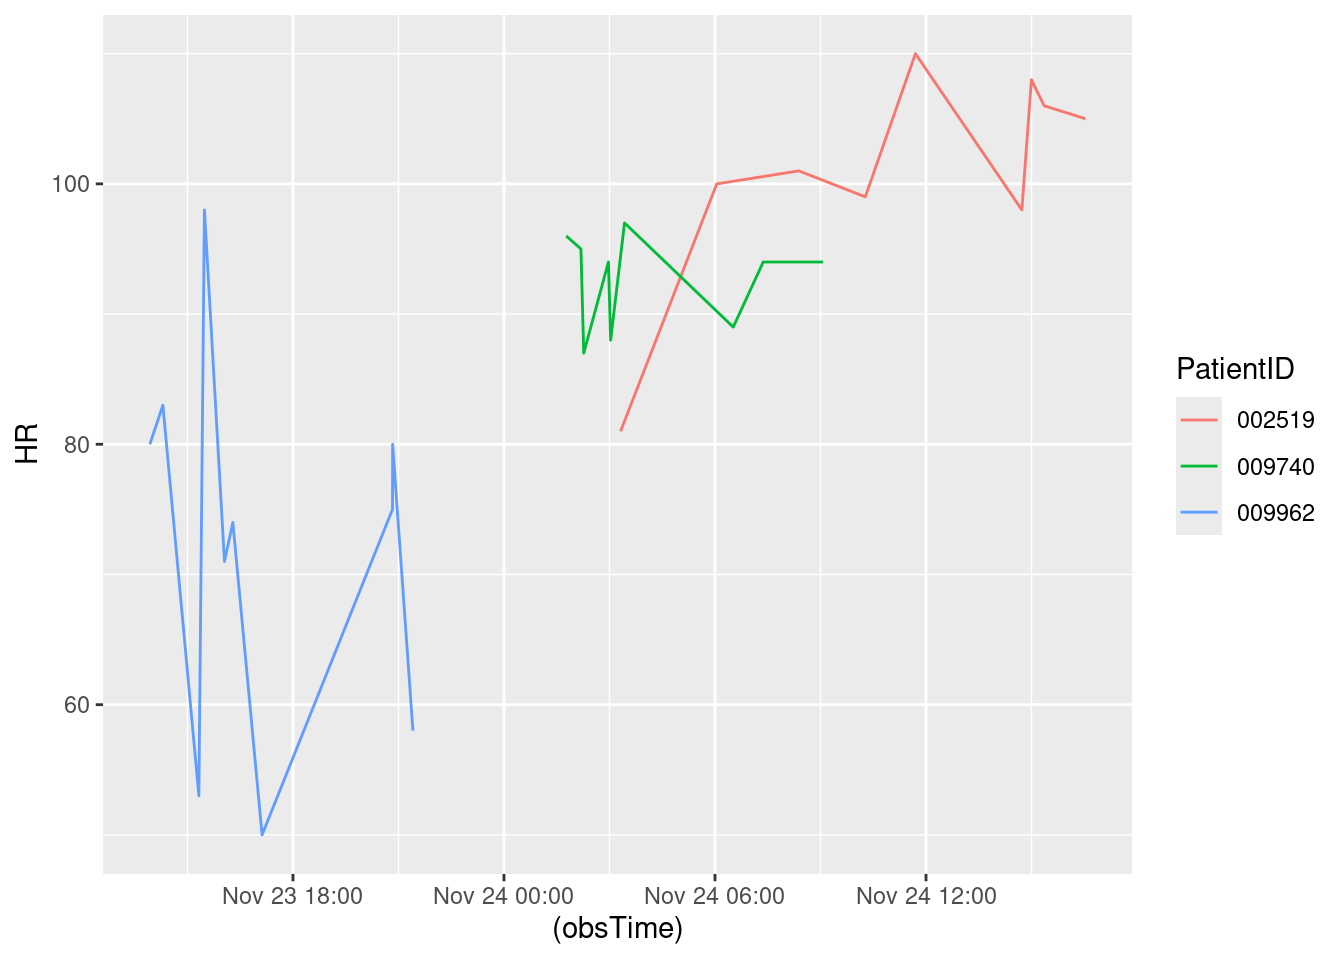
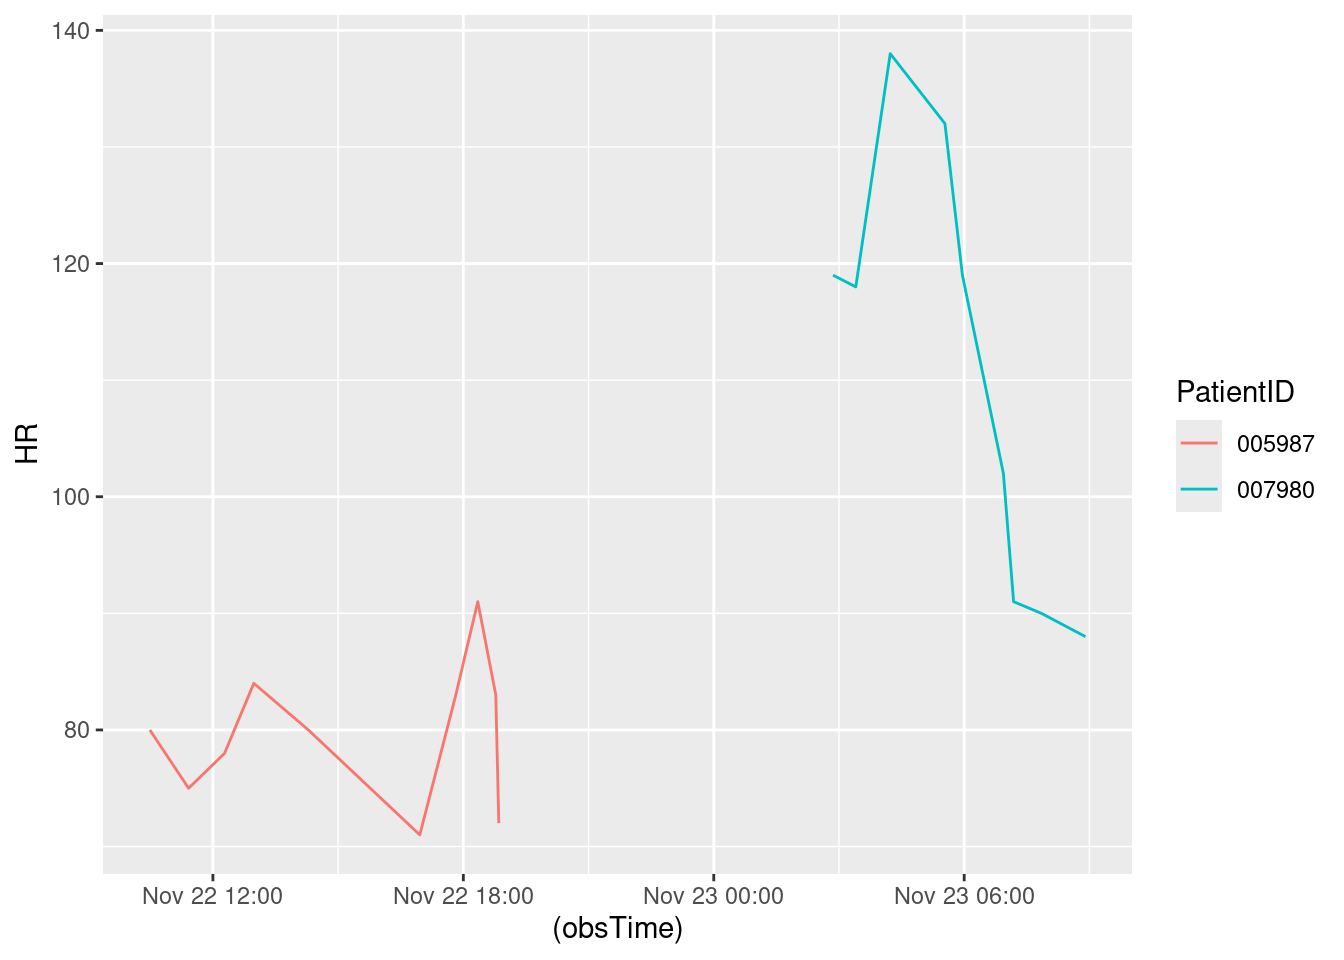
Updated report

diff --git a/HW7.html b/HW7.html
@@ -152,7 +152,7 @@ The following object is masked from 'package:purrr':
 </div>
 <div class="sourceCode cell-code" id="cb8"><pre class="sourceCode r code-with-copy"><code class="sourceCode r"><span id="cb8-1"><a href="#cb8-1" aria-hidden="true" tabindex="-1"></a><span class="fu">toc</span>()</span></code><button title="Copy to Clipboard" class="code-copy-button"><i class="bi"></i></button></pre></div>
 <div class="cell-output cell-output-stdout">
-<pre><code>25.287 sec elapsed</code></pre>
+<pre><code>13.591 sec elapsed</code></pre>
 </div>
 <div class="sourceCode cell-code" id="cb10"><pre class="sourceCode r code-with-copy"><code class="sourceCode r"><span id="cb10-1"><a href="#cb10-1" aria-hidden="true" tabindex="-1"></a><span class="fu">tic</span>()</span>
 <span id="cb10-2"><a href="#cb10-2" aria-hidden="true" tabindex="-1"></a>test1<span class="ot">=</span><span class="fu">makeSepsisDataset</span>(<span class="at">n=</span><span class="dv">50</span>,<span class="at">read_fn =</span> <span class="st">"read_delim"</span>)</span>
@@ -162,7 +162,7 @@ The following object is masked from 'package:purrr':
 </div>
 <div class="sourceCode cell-code" id="cb12"><pre class="sourceCode r code-with-copy"><code class="sourceCode r"><span id="cb12-1"><a href="#cb12-1" aria-hidden="true" tabindex="-1"></a><span class="fu">toc</span>()</span></code><button title="Copy to Clipboard" class="code-copy-button"><i class="bi"></i></button></pre></div>
 <div class="cell-output cell-output-stdout">
-<pre><code>21.49 sec elapsed</code></pre>
+<pre><code>11.629 sec elapsed</code></pre>
 </div>
 <div class="sourceCode cell-code" id="cb14"><pre class="sourceCode r code-with-copy"><code class="sourceCode r"><span id="cb14-1"><a href="#cb14-1" aria-hidden="true" tabindex="-1"></a><span class="fu">tic</span>()</span>
 <span id="cb14-2"><a href="#cb14-2" aria-hidden="true" tabindex="-1"></a>test1<span class="ot">=</span><span class="fu">makeSepsisDataset</span>(<span class="at">n=</span><span class="dv">100</span>,<span class="at">read_fn =</span> <span class="st">"fread"</span>)</span>
@@ -172,7 +172,7 @@ The following object is masked from 'package:purrr':
 </div>
 <div class="sourceCode cell-code" id="cb16"><pre class="sourceCode r code-with-copy"><code class="sourceCode r"><span id="cb16-1"><a href="#cb16-1" aria-hidden="true" tabindex="-1"></a><span class="fu">toc</span>()</span></code><button title="Copy to Clipboard" class="code-copy-button"><i class="bi"></i></button></pre></div>
 <div class="cell-output cell-output-stdout">
-<pre><code>45.803 sec elapsed</code></pre>
+<pre><code>25.463 sec elapsed</code></pre>
 </div>
 <div class="sourceCode cell-code" id="cb18"><pre class="sourceCode r code-with-copy"><code class="sourceCode r"><span id="cb18-1"><a href="#cb18-1" aria-hidden="true" tabindex="-1"></a><span class="fu">tic</span>()</span>
 <span id="cb18-2"><a href="#cb18-2" aria-hidden="true" tabindex="-1"></a>test1<span class="ot">=</span><span class="fu">makeSepsisDataset</span>(<span class="at">n=</span><span class="dv">100</span>,<span class="at">read_fn =</span> <span class="st">"read_delim"</span>)</span>
@@ -182,7 +182,7 @@ The following object is masked from 'package:purrr':
 </div>
 <div class="sourceCode cell-code" id="cb20"><pre class="sourceCode r code-with-copy"><code class="sourceCode r"><span id="cb20-1"><a href="#cb20-1" aria-hidden="true" tabindex="-1"></a><span class="fu">toc</span>()</span></code><button title="Copy to Clipboard" class="code-copy-button"><i class="bi"></i></button></pre></div>
 <div class="cell-output cell-output-stdout">
-<pre><code>42.435 sec elapsed</code></pre>
+<pre><code>22.571 sec elapsed</code></pre>
 </div>
 <div class="sourceCode cell-code" id="cb22"><pre class="sourceCode r code-with-copy"><code class="sourceCode r"><span id="cb22-1"><a href="#cb22-1" aria-hidden="true" tabindex="-1"></a><span class="fu">tic</span>()</span>
 <span id="cb22-2"><a href="#cb22-2" aria-hidden="true" tabindex="-1"></a>test1<span class="ot">=</span><span class="fu">makeSepsisDataset</span>(<span class="at">n=</span><span class="dv">500</span>,<span class="at">read_fn =</span> <span class="st">"fread"</span>)</span>
@@ -192,7 +192,7 @@ The following object is masked from 'package:purrr':
 </div>
 <div class="sourceCode cell-code" id="cb24"><pre class="sourceCode r code-with-copy"><code class="sourceCode r"><span id="cb24-1"><a href="#cb24-1" aria-hidden="true" tabindex="-1"></a><span class="fu">toc</span>()</span></code><button title="Copy to Clipboard" class="code-copy-button"><i class="bi"></i></button></pre></div>
 <div class="cell-output cell-output-stdout">
-<pre><code>235.014 sec elapsed</code></pre>
+<pre><code>128.294 sec elapsed</code></pre>
 </div>
 <div class="sourceCode cell-code" id="cb26"><pre class="sourceCode r code-with-copy"><code class="sourceCode r"><span id="cb26-1"><a href="#cb26-1" aria-hidden="true" tabindex="-1"></a><span class="fu">tic</span>()</span>
 <span id="cb26-2"><a href="#cb26-2" aria-hidden="true" tabindex="-1"></a>test1<span class="ot">=</span><span class="fu">makeSepsisDataset</span>(<span class="at">n=</span><span class="dv">500</span>,<span class="at">read_fn =</span> <span class="st">"read_delim"</span>)</span>
@@ -202,7 +202,7 @@ The following object is masked from 'package:purrr':
 </div>
 <div class="sourceCode cell-code" id="cb28"><pre class="sourceCode r code-with-copy"><code class="sourceCode r"><span id="cb28-1"><a href="#cb28-1" aria-hidden="true" tabindex="-1"></a><span class="fu">toc</span>()</span></code><button title="Copy to Clipboard" class="code-copy-button"><i class="bi"></i></button></pre></div>
 <div class="cell-output cell-output-stdout">
-<pre><code>212.263 sec elapsed</code></pre>
+<pre><code>115.081 sec elapsed</code></pre>
 </div>
 </div>
 <p>Problem 3: Speed reading</p>
@@ -244,7 +244,7 @@ dttm (1): obsTime
 <div class="sourceCode cell-code" id="cb35"><pre class="sourceCode r code-with-copy"><code class="sourceCode r"><span id="cb35-1"><a href="#cb35-1" aria-hidden="true" tabindex="-1"></a><span class="co">#Sys.Date()</span></span>
 <span id="cb35-2"><a href="#cb35-2" aria-hidden="true" tabindex="-1"></a><span class="fu">Sys.time</span>()</span></code><button title="Copy to Clipboard" class="code-copy-button"><i class="bi"></i></button></pre></div>
 <div class="cell-output cell-output-stdout">
-<pre><code>[1] "2024-11-22 09:34:32 UTC"</code></pre>
+<pre><code>[1] "2024-11-22 10:29:22 UTC"</code></pre>
 </div>
 <div class="sourceCode cell-code" id="cb37"><pre class="sourceCode r code-with-copy"><code class="sourceCode r"><span id="cb37-1"><a href="#cb37-1" aria-hidden="true" tabindex="-1"></a>dfnew<span class="ot">=</span>df <span class="sc">%&gt;%</span><span class="fu">subset</span>(SepsisLabel<span class="sc">==</span><span class="dv">1</span>)</span>
 <span id="cb37-2"><a href="#cb37-2" aria-hidden="true" tabindex="-1"></a></span>
@@ -259,22 +259,17 @@ dttm (1): obsTime
 <span id="cb37-11"><a href="#cb37-11" aria-hidden="true" tabindex="-1"></a></span>
 <span id="cb37-12"><a href="#cb37-12" aria-hidden="true" tabindex="-1"></a><span class="fu">print</span>(res)</span></code><button title="Copy to Clipboard" class="code-copy-button"><i class="bi"></i></button></pre></div>
 <div class="cell-output cell-output-stdout">
-<pre><code># A tibble: 3 × 7
-# Groups:   PatientID [3]
+<pre><code># A tibble: 2 × 7
+# Groups:   PatientID [2]
   PatientID ICULOS    HR  Temp  Resp SepsisLabel obsTime            
   &lt;chr&gt;      &lt;int&gt; &lt;int&gt; &lt;dbl&gt; &lt;int&gt;       &lt;int&gt; &lt;dttm&gt;             
-1 002519        55   105  NA      14           1 2024-11-24 16:32:03
-2 009740        48    94  37.1    22           1 2024-11-24 09:04:12
-3 009962        36    58  NA      22           1 2024-11-23 21:24:38</code></pre>
+1 005987         9    72  NA      27           1 2024-11-22 18:50:59
+2 007980        23    88  36.1    13           1 2024-11-23 08:54:20</code></pre>
 </div>
 </div>
 <div class="cell">
 <div class="sourceCode cell-code" id="cb39"><pre class="sourceCode r code-with-copy"><code class="sourceCode r"><span id="cb39-1"><a href="#cb39-1" aria-hidden="true" tabindex="-1"></a>dfnew <span class="sc">%&gt;%</span></span>
 <span id="cb39-2"><a href="#cb39-2" aria-hidden="true" tabindex="-1"></a>  <span class="fu">ggplot</span>()<span class="sc">+</span><span class="fu">geom_line</span>(<span class="fu">aes</span>(<span class="at">y=</span>HR,<span class="at">x=</span>(obsTime),<span class="at">color=</span>PatientID))</span></code><button title="Copy to Clipboard" class="code-copy-button"><i class="bi"></i></button></pre></div>
-<div class="cell-output cell-output-stderr">
-<pre><code>Warning: Removed 1 row containing missing values or values outside the scale range
-(`geom_line()`).</code></pre>
-</div>
 <div class="cell-output-display">
 <div>
 <figure class="figure">
@@ -287,7 +282,7 @@ dttm (1): obsTime
 <section id="display-the-most-recent-data" class="level2">
 <h2 class="anchored" data-anchor-id="display-the-most-recent-data">Display the most recent data</h2>
 <div class="cell">
-<div class="sourceCode cell-code" id="cb41"><pre class="sourceCode r code-with-copy"><code class="sourceCode r"><span id="cb41-1"><a href="#cb41-1" aria-hidden="true" tabindex="-1"></a>most_recent_data</span></code><button title="Copy to Clipboard" class="code-copy-button"><i class="bi"></i></button></pre></div>
+<div class="sourceCode cell-code" id="cb40"><pre class="sourceCode r code-with-copy"><code class="sourceCode r"><span id="cb40-1"><a href="#cb40-1" aria-hidden="true" tabindex="-1"></a>most_recent_data</span></code><button title="Copy to Clipboard" class="code-copy-button"><i class="bi"></i></button></pre></div>
 <div class="cell-output cell-output-stdout">
 <pre><code># A tibble: 50 × 7
 # Groups:   PatientID [50]
@@ -310,32 +305,32 @@ dttm (1): obsTime
 <section id="calculate-the-difference" class="level2">
 <h2 class="anchored" data-anchor-id="calculate-the-difference">Calculate the difference</h2>
 <div class="cell">
-<div class="sourceCode cell-code" id="cb43"><pre class="sourceCode r code-with-copy"><code class="sourceCode r"><span id="cb43-1"><a href="#cb43-1" aria-hidden="true" tabindex="-1"></a><span class="fu">library</span>(dplyr)</span>
-<span id="cb43-2"><a href="#cb43-2" aria-hidden="true" tabindex="-1"></a><span class="fu">library</span>(tidyr)</span>
-<span id="cb43-3"><a href="#cb43-3" aria-hidden="true" tabindex="-1"></a><span class="fu">library</span>(knitr)</span>
-<span id="cb43-4"><a href="#cb43-4" aria-hidden="true" tabindex="-1"></a>get_observation_data <span class="ot">&lt;-</span> <span class="cf">function</span>(data, n, column_suffix) {</span>
-<span id="cb43-5"><a href="#cb43-5" aria-hidden="true" tabindex="-1"></a>  data <span class="sc">%&gt;%</span></span>
-<span id="cb43-6"><a href="#cb43-6" aria-hidden="true" tabindex="-1"></a>    <span class="fu">group_by</span>(PatientID) <span class="sc">%&gt;%</span></span>
-<span id="cb43-7"><a href="#cb43-7" aria-hidden="true" tabindex="-1"></a>    <span class="fu">slice_max</span>(<span class="at">order_by =</span> obsTime, <span class="at">n =</span> n) <span class="sc">%&gt;%</span></span>
-<span id="cb43-8"><a href="#cb43-8" aria-hidden="true" tabindex="-1"></a>    <span class="fu">select</span>(<span class="sc">-</span><span class="fu">c</span>(ICULOS, SepsisLabel, obsTime)) <span class="sc">%&gt;%</span></span>
-<span id="cb43-9"><a href="#cb43-9" aria-hidden="true" tabindex="-1"></a>    <span class="fu">rename_at</span>(<span class="fu">vars</span>(HR, Temp, Resp),</span>
-<span id="cb43-10"><a href="#cb43-10" aria-hidden="true" tabindex="-1"></a>              <span class="fu">list</span>(<span class="sc">~</span><span class="fu">paste0</span>(., <span class="st">"_"</span>, column_suffix)))</span>
-<span id="cb43-11"><a href="#cb43-11" aria-hidden="true" tabindex="-1"></a>}</span>
-<span id="cb43-12"><a href="#cb43-12" aria-hidden="true" tabindex="-1"></a></span>
-<span id="cb43-13"><a href="#cb43-13" aria-hidden="true" tabindex="-1"></a></span>
-<span id="cb43-14"><a href="#cb43-14" aria-hidden="true" tabindex="-1"></a></span>
-<span id="cb43-15"><a href="#cb43-15" aria-hidden="true" tabindex="-1"></a></span>
-<span id="cb43-16"><a href="#cb43-16" aria-hidden="true" tabindex="-1"></a>last_obs <span class="ot">&lt;-</span> <span class="fu">get_observation_data</span>(new_data, <span class="dv">1</span>, <span class="st">"last"</span>)</span>
-<span id="cb43-17"><a href="#cb43-17" aria-hidden="true" tabindex="-1"></a>penultimate_obs <span class="ot">&lt;-</span> <span class="fu">get_observation_data</span>(new_data, <span class="dv">2</span>, <span class="st">"penult"</span>)</span>
-<span id="cb43-18"><a href="#cb43-18" aria-hidden="true" tabindex="-1"></a>joined_data <span class="ot">&lt;-</span> <span class="fu">full_join</span>(last_obs, penultimate_obs) <span class="sc">%&gt;%</span></span>
-<span id="cb43-19"><a href="#cb43-19" aria-hidden="true" tabindex="-1"></a>  <span class="fu">transmute</span>(PatientID,</span>
-<span id="cb43-20"><a href="#cb43-20" aria-hidden="true" tabindex="-1"></a>            <span class="st">`</span><span class="at">Temperature change</span><span class="st">`</span> <span class="ot">=</span> Temp_last <span class="sc">-</span> Temp_penult,</span>
-<span id="cb43-21"><a href="#cb43-21" aria-hidden="true" tabindex="-1"></a>            <span class="st">`</span><span class="at">Heart rate change</span><span class="st">`</span> <span class="ot">=</span> HR_last <span class="sc">-</span> HR_penult,</span>
-<span id="cb43-22"><a href="#cb43-22" aria-hidden="true" tabindex="-1"></a>            <span class="st">`</span><span class="at">Respiratory rate change</span><span class="st">`</span> <span class="ot">=</span> Resp_last <span class="sc">-</span> Resp_penult)</span></code><button title="Copy to Clipboard" class="code-copy-button"><i class="bi"></i></button></pre></div>
+<div class="sourceCode cell-code" id="cb42"><pre class="sourceCode r code-with-copy"><code class="sourceCode r"><span id="cb42-1"><a href="#cb42-1" aria-hidden="true" tabindex="-1"></a><span class="fu">library</span>(dplyr)</span>
+<span id="cb42-2"><a href="#cb42-2" aria-hidden="true" tabindex="-1"></a><span class="fu">library</span>(tidyr)</span>
+<span id="cb42-3"><a href="#cb42-3" aria-hidden="true" tabindex="-1"></a><span class="fu">library</span>(knitr)</span>
+<span id="cb42-4"><a href="#cb42-4" aria-hidden="true" tabindex="-1"></a>get_observation_data <span class="ot">&lt;-</span> <span class="cf">function</span>(data, n, column_suffix) {</span>
+<span id="cb42-5"><a href="#cb42-5" aria-hidden="true" tabindex="-1"></a>  data <span class="sc">%&gt;%</span></span>
+<span id="cb42-6"><a href="#cb42-6" aria-hidden="true" tabindex="-1"></a>    <span class="fu">group_by</span>(PatientID) <span class="sc">%&gt;%</span></span>
+<span id="cb42-7"><a href="#cb42-7" aria-hidden="true" tabindex="-1"></a>    <span class="fu">slice_max</span>(<span class="at">order_by =</span> obsTime, <span class="at">n =</span> n) <span class="sc">%&gt;%</span></span>
+<span id="cb42-8"><a href="#cb42-8" aria-hidden="true" tabindex="-1"></a>    <span class="fu">select</span>(<span class="sc">-</span><span class="fu">c</span>(ICULOS, SepsisLabel, obsTime)) <span class="sc">%&gt;%</span></span>
+<span id="cb42-9"><a href="#cb42-9" aria-hidden="true" tabindex="-1"></a>    <span class="fu">rename_at</span>(<span class="fu">vars</span>(HR, Temp, Resp),</span>
+<span id="cb42-10"><a href="#cb42-10" aria-hidden="true" tabindex="-1"></a>              <span class="fu">list</span>(<span class="sc">~</span><span class="fu">paste0</span>(., <span class="st">"_"</span>, column_suffix)))</span>
+<span id="cb42-11"><a href="#cb42-11" aria-hidden="true" tabindex="-1"></a>}</span>
+<span id="cb42-12"><a href="#cb42-12" aria-hidden="true" tabindex="-1"></a></span>
+<span id="cb42-13"><a href="#cb42-13" aria-hidden="true" tabindex="-1"></a></span>
+<span id="cb42-14"><a href="#cb42-14" aria-hidden="true" tabindex="-1"></a></span>
+<span id="cb42-15"><a href="#cb42-15" aria-hidden="true" tabindex="-1"></a></span>
+<span id="cb42-16"><a href="#cb42-16" aria-hidden="true" tabindex="-1"></a>last_obs <span class="ot">&lt;-</span> <span class="fu">get_observation_data</span>(new_data, <span class="dv">1</span>, <span class="st">"last"</span>)</span>
+<span id="cb42-17"><a href="#cb42-17" aria-hidden="true" tabindex="-1"></a>penultimate_obs <span class="ot">&lt;-</span> <span class="fu">get_observation_data</span>(new_data, <span class="dv">2</span>, <span class="st">"penult"</span>)</span>
+<span id="cb42-18"><a href="#cb42-18" aria-hidden="true" tabindex="-1"></a>joined_data <span class="ot">&lt;-</span> <span class="fu">full_join</span>(last_obs, penultimate_obs) <span class="sc">%&gt;%</span></span>
+<span id="cb42-19"><a href="#cb42-19" aria-hidden="true" tabindex="-1"></a>  <span class="fu">transmute</span>(PatientID,</span>
+<span id="cb42-20"><a href="#cb42-20" aria-hidden="true" tabindex="-1"></a>            <span class="st">`</span><span class="at">Temperature change</span><span class="st">`</span> <span class="ot">=</span> Temp_last <span class="sc">-</span> Temp_penult,</span>
+<span id="cb42-21"><a href="#cb42-21" aria-hidden="true" tabindex="-1"></a>            <span class="st">`</span><span class="at">Heart rate change</span><span class="st">`</span> <span class="ot">=</span> HR_last <span class="sc">-</span> HR_penult,</span>
+<span id="cb42-22"><a href="#cb42-22" aria-hidden="true" tabindex="-1"></a>            <span class="st">`</span><span class="at">Respiratory rate change</span><span class="st">`</span> <span class="ot">=</span> Resp_last <span class="sc">-</span> Resp_penult)</span></code><button title="Copy to Clipboard" class="code-copy-button"><i class="bi"></i></button></pre></div>
 <div class="cell-output cell-output-stderr">
 <pre><code>Joining with `by = join_by(PatientID)`</code></pre>
 </div>
-<div class="sourceCode cell-code" id="cb45"><pre class="sourceCode r code-with-copy"><code class="sourceCode r"><span id="cb45-1"><a href="#cb45-1" aria-hidden="true" tabindex="-1"></a><span class="fu">kable</span>(joined_data, <span class="at">caption =</span> <span class="st">"Patients' Recent Changes in Vital Stats"</span>)</span></code><button title="Copy to Clipboard" class="code-copy-button"><i class="bi"></i></button></pre></div>
+<div class="sourceCode cell-code" id="cb44"><pre class="sourceCode r code-with-copy"><code class="sourceCode r"><span id="cb44-1"><a href="#cb44-1" aria-hidden="true" tabindex="-1"></a><span class="fu">kable</span>(joined_data, <span class="at">caption =</span> <span class="st">"Patients' Recent Changes in Vital Stats"</span>)</span></code><button title="Copy to Clipboard" class="code-copy-button"><i class="bi"></i></button></pre></div>
 <div class="cell-output-display">
 <table class="caption-top table table-sm table-striped small">
 <caption>Patients’ Recent Changes in Vital Stats</caption>
